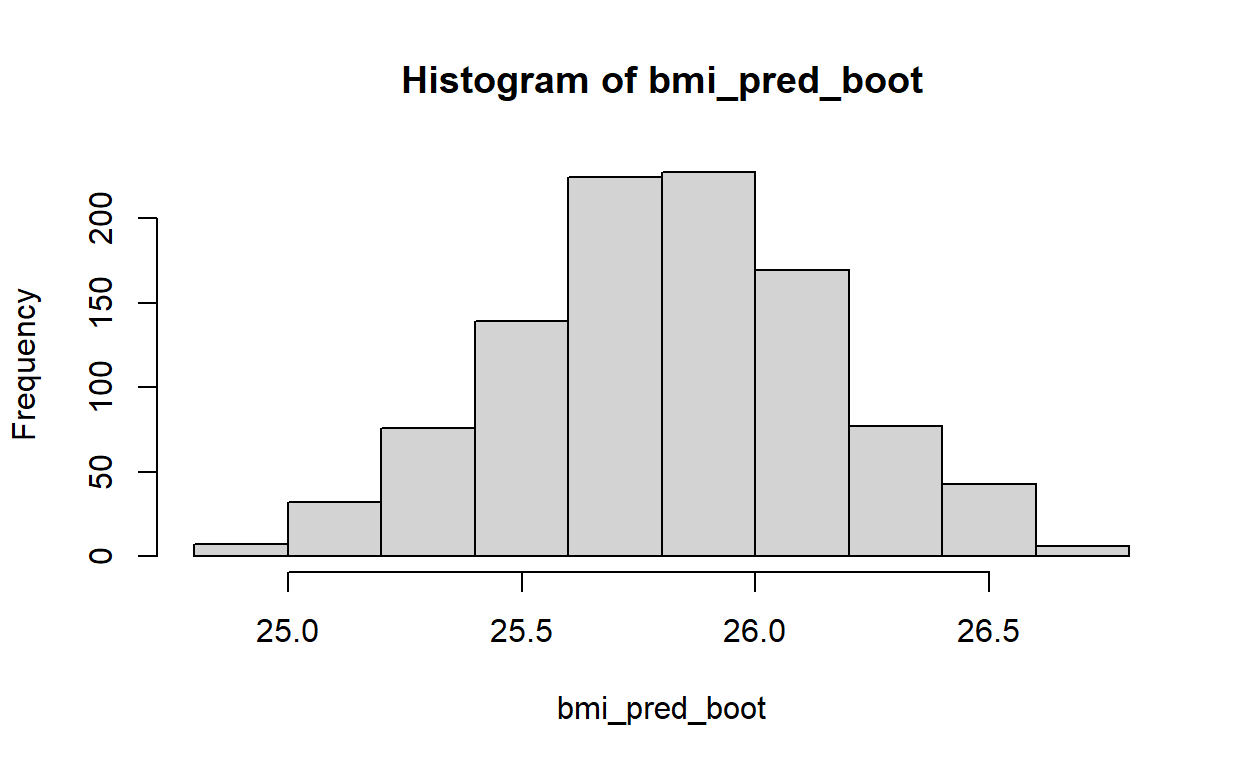
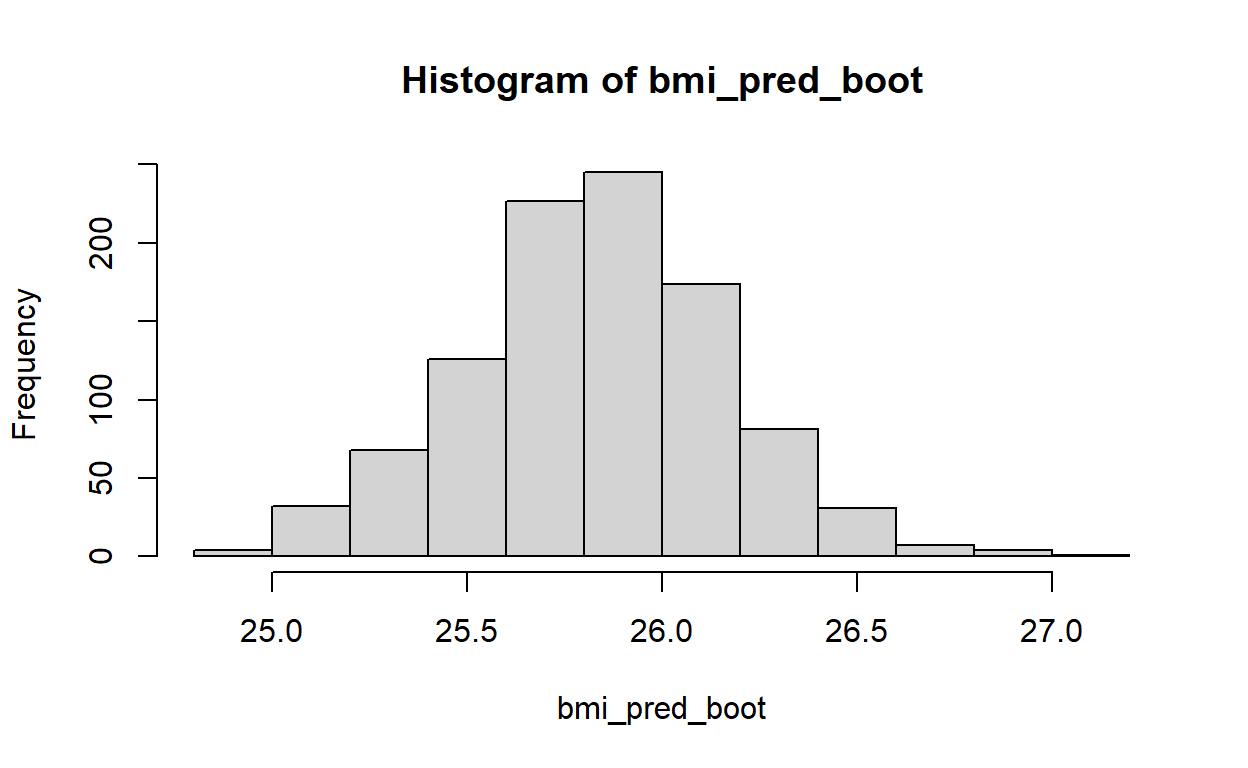
Anpassungen

diff --git a/docs/C6_solution.html b/docs/C6_solution.html
@@ -2540,8 +2540,8 @@ C7 - R Markdown
 <pre class="sourceCode r"><code class="sourceCode r"><span><span class='co'># Apply function to the bootstrap dataset</span></span>
 <span><span class='fu'>bmi_pred_funct</span><span class='op'>(</span>data_input <span class='op'>=</span> <span class='va'>SSRC_data_bootstrap</span><span class='op'>)</span></span></code></pre>
 </div>
-<pre><code>      1 
-25.9593 </code></pre>
+<pre><code>       1 
+25.94976 </code></pre>
 </div>
 <h3 id="task-20">Task 20</h3>
 <p>Use a for loop to repeat what you did in tasks 18/19 1000 times. Store the results in a vector called <em>bmi_pred_boot</em>. Check out the <em>bmi_pred_boot</em> vector.</p>
@@ -2563,7 +2563,7 @@ C7 - R Markdown
 <span><span class='co'># Check out the vector</span></span>
 <span><span class='fu'><a href='https://rdrr.io/r/utils/head.html'>head</a></span><span class='op'>(</span><span class='va'>bmi_pred_boot</span><span class='op'>)</span></span></code></pre>
 </div>
-<pre><code>[1] 25.97381 25.80691 26.30887 25.48384 26.48560 25.61780</code></pre>
+<pre><code>[1] 26.07499 26.37376 25.71273 25.60832 25.84868 26.12393</code></pre>
 </div>
 <h3 id="task-21">Task 21</h3>
 <p>Create a histogram to analyse the distribution of <em>bmi_pred_boot</em> vector. (Just use <em>hist()</em> from the base R package)</p>
@@ -2581,18 +2581,18 @@ C7 - R Markdown
 <pre class="sourceCode r"><code class="sourceCode r"><span><span class='co'># Calculate mean</span></span>
 <span><span class='fu'><a href='https://rdrr.io/r/base/mean.html'>mean</a></span><span class='op'>(</span><span class='va'>bmi_pred_boot</span><span class='op'>)</span></span></code></pre>
 </div>
-<pre><code>[1] 25.81583</code></pre>
+<pre><code>[1] 25.82796</code></pre>
 <div class="sourceCode">
 <pre class="sourceCode r"><code class="sourceCode r"><span><span class='co'># Calculate standard deviation</span></span>
 <span><span class='fu'><a href='https://rdrr.io/r/stats/sd.html'>sd</a></span><span class='op'>(</span><span class='va'>bmi_pred_boot</span><span class='op'>)</span></span></code></pre>
 </div>
-<pre><code>[1] 0.3368098</code></pre>
+<pre><code>[1] 0.3363086</code></pre>
 <div class="sourceCode">
 <pre class="sourceCode r"><code class="sourceCode r"><span><span class='co'># Calculate quantiles</span></span>
 <span><span class='fu'><a href='https://rdrr.io/r/stats/quantile.html'>quantile</a></span><span class='op'>(</span><span class='va'>bmi_pred_boot</span>, probs <span class='op'>=</span> <span class='fu'><a href='https://rdrr.io/r/base/c.html'>c</a></span><span class='op'>(</span><span class='fl'>0.025</span>, <span class='fl'>0.975</span><span class='op'>)</span><span class='op'>)</span></span></code></pre>
 </div>
 <pre><code>    2.5%    97.5% 
-25.17027 26.47522 </code></pre>
+25.15336 26.52420 </code></pre>
 </div>
 <div class="sourceCode" id="cb20"><pre class="sourceCode r distill-force-highlighting-css"><code class="sourceCode r"></code></pre></div>
 <!--radix_placeholder_article_footer-->

diff --git a/docs/C0_course_introduction.knit.html b/docs/C0_course_introduction.knit.html
@@ -2068,14 +2068,6 @@ code span.wa { color: #5e5e5e; font-style: italic; } /* Warning */
 
   <!--/radix_placeholder_distill-->
   <script src="site_libs/header-attrs-2.16/header-attrs.js"></script>
-  <script src="site_libs/popper-2.6.0/popper.min.js"></script>
-  <link href="site_libs/tippy-6.2.7/tippy.css" rel="stylesheet" />
-  <link href="site_libs/tippy-6.2.7/tippy-light-border.css" rel="stylesheet" />
-  <script src="site_libs/tippy-6.2.7/tippy.umd.min.js"></script>
-  <script src="site_libs/anchor-4.2.2/anchor.min.js"></script>
-  <script src="site_libs/bowser-1.9.3/bowser.min.js"></script>
-  <script src="site_libs/webcomponents-2.0.0/webcomponents.js"></script>
-  <script src="site_libs/distill-2.2.21/template.v2.js"></script>
   <!--radix_placeholder_site_in_header-->
   <!--/radix_placeholder_site_in_header-->
 
